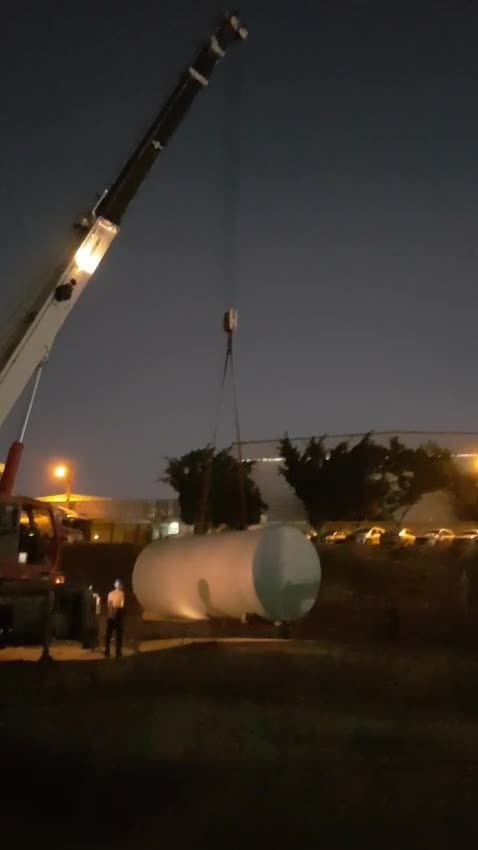
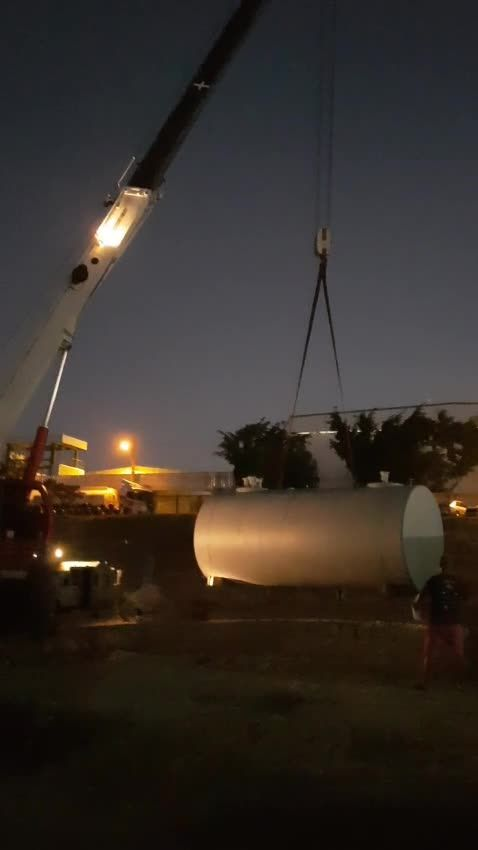
hero: vídeo vertical (frame inteiro com o solo) + trecho a partir de 1:06
Exibe o vídeo do içamento em formato vertical no hero (altura cheia,
largura automática, centralizado) para mostrar o frame completo, incluindo
o solo — antes o recorte horizontal cortava topo e base. Recorta o trecho
a partir de 1:06. Cache-bust ?v=2 nos assets de vídeo/poster.

Claude-Session: https://claude.ai/code/session_01TDaknKKnayUG1ThBCTNQQu

diff --git a/public_html/index.html b/public_html/index.html
@@ -42,7 +42,7 @@
   <link href="https://fonts.googleapis.com/css2?family=Montserrat:wght@400;500;600;700;900&family=JetBrains+Mono:wght@500;700&display=swap" rel="stylesheet">
 
   <!-- Preload hero LCP image -->
-  <link rel="preload" as="image" href="/images/icamento-poster.jpg" fetchpriority="high">
+  <link rel="preload" as="image" href="/images/icamento-poster.jpg?v=2" fetchpriority="high">
 
   <!-- CSS -->
   <link rel="stylesheet" href="/css/style.css?v=20260617">
@@ -212,9 +212,9 @@
           </div>
         </div>
         <div class="hero-visual">
-          <video class="hero-img" id="heroVideo" autoplay muted loop playsinline preload="auto" poster="/images/icamento-poster.jpg" width="600" height="480" aria-label="Içamento de um tanque por guindaste em obra da RR Engenharia">
-            <source src="/videos/icamento-tanque.webm" type="video/webm">
-            <source src="/videos/icamento-tanque.mp4" type="video/mp4">
+          <video class="hero-img" id="heroVideo" autoplay muted loop playsinline preload="auto" poster="/images/icamento-poster.jpg?v=2" width="478" height="850" style="height:100%; width:auto; max-width:100%; margin:0 auto; display:block; object-fit:contain;" aria-label="Içamento de um tanque por guindaste em obra da RR Engenharia">
+            <source src="/videos/icamento-tanque.webm?v=2" type="video/webm">
+            <source src="/videos/icamento-tanque.mp4?v=2" type="video/mp4">
           </video>
           <script>(function(){var v=document.getElementById('heroVideo');if(v&&window.matchMedia&&matchMedia('(prefers-reduced-motion: reduce)').matches){v.removeAttribute('autoplay');try{v.pause();}catch(e){}}})();</script>
         </div>